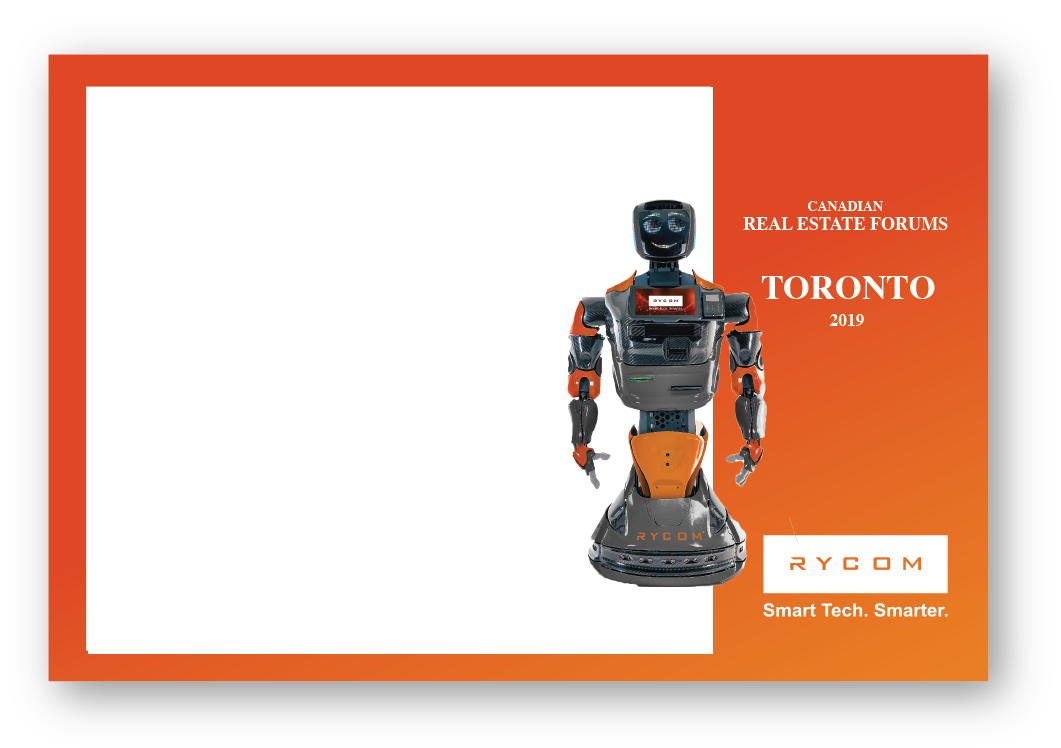
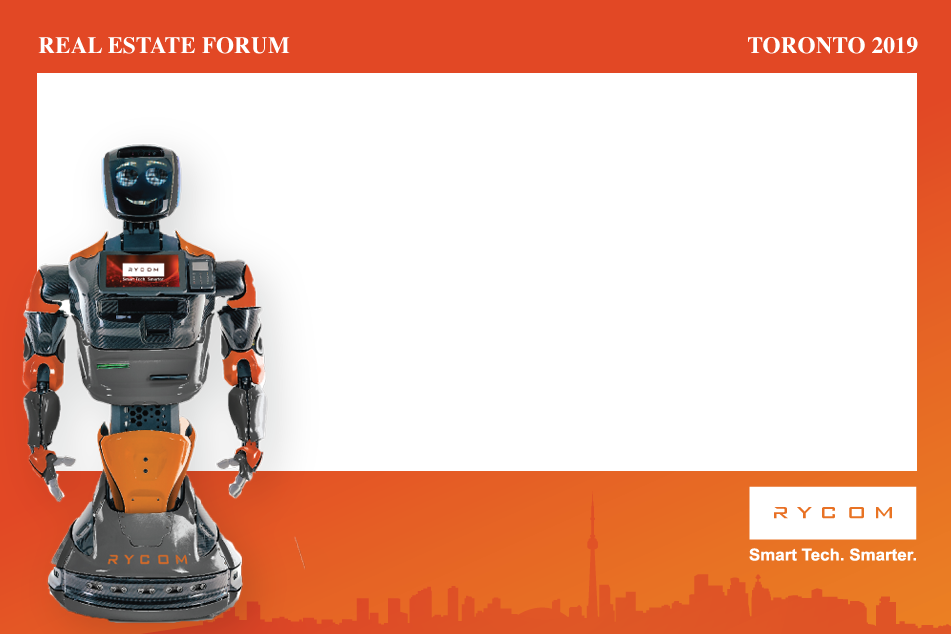
change assets

diff --git a/src/components/configs/config.js b/src/components/configs/config.js
@@ -1,11 +1,11 @@
 export default {
-  logo: './img/Orange_Rycom_Logo.png',
+  logo: './img/White_Rycom_Logo.png',
   tokenSendGrid: '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',
   linkBm3group: 'http://bm3sk.bm3group.com',
   emailSendGrid: 'test@test.com',
   bg: './img/Screen.png',
   home : {
-    bgCam: './img/Watermark2.png',
+    bgCam: './img/Watermark.png',
     buttons:
     [
       {name: 'Retake', url: './img/Retake_Photo_Button.png', label: ''},
@@ -25,7 +25,7 @@ export default {
     checkText: 'I agree to receive email messages from RYCOM Corporation',
     checkConsent: 'Consent*',
     text: 'Fill out the form below and take a picture with me.',
-    robot: './img/robot.png',
+    robot: './img/Big_Robot.png',
     buttons: [
       {name: 'Next', url: '', label: 'Next'},
       {name: 'Main', url: './img/Main_Menu_Button.png', label: ''},

diff --git a/src/components/Home.vue b/src/components/Home.vue
@@ -130,7 +130,7 @@ export default {
       position: absolute;
       left: 50%;
       transform: translate(-50%, -50%);
-      top: 50%;
+      top: 44%;
     }
     video#videoElement {
       position: absolute;
@@ -157,12 +157,13 @@ export default {
       position: relative;
     }
     .background-cam {
-      width: 100%;
+      width: calc(100% + 7px);
       height: 100%;
       z-index: 1;
-      background-size: 101% 100%;
+      background-size: 100% 100%;
       background-repeat: no-repeat;
       position: relative;
+      margin-left: -3px;
     }
     .m-top-30 {
       margin-top: 30px;

diff --git a/src/App.vue b/src/App.vue
@@ -15,14 +15,13 @@ export default {
     width: 100%;
     height: 100%;
     background-repeat: no-repeat;
-    background-size: contain;
+    background-size: cover;
     display: block;
     position: fixed;
   }
   .img-logo {
     width: 450px;
     margin: 0 auto;
-    filter: brightness(0) invert(1);
     margin-top: 100px;
   }
   .btn {
